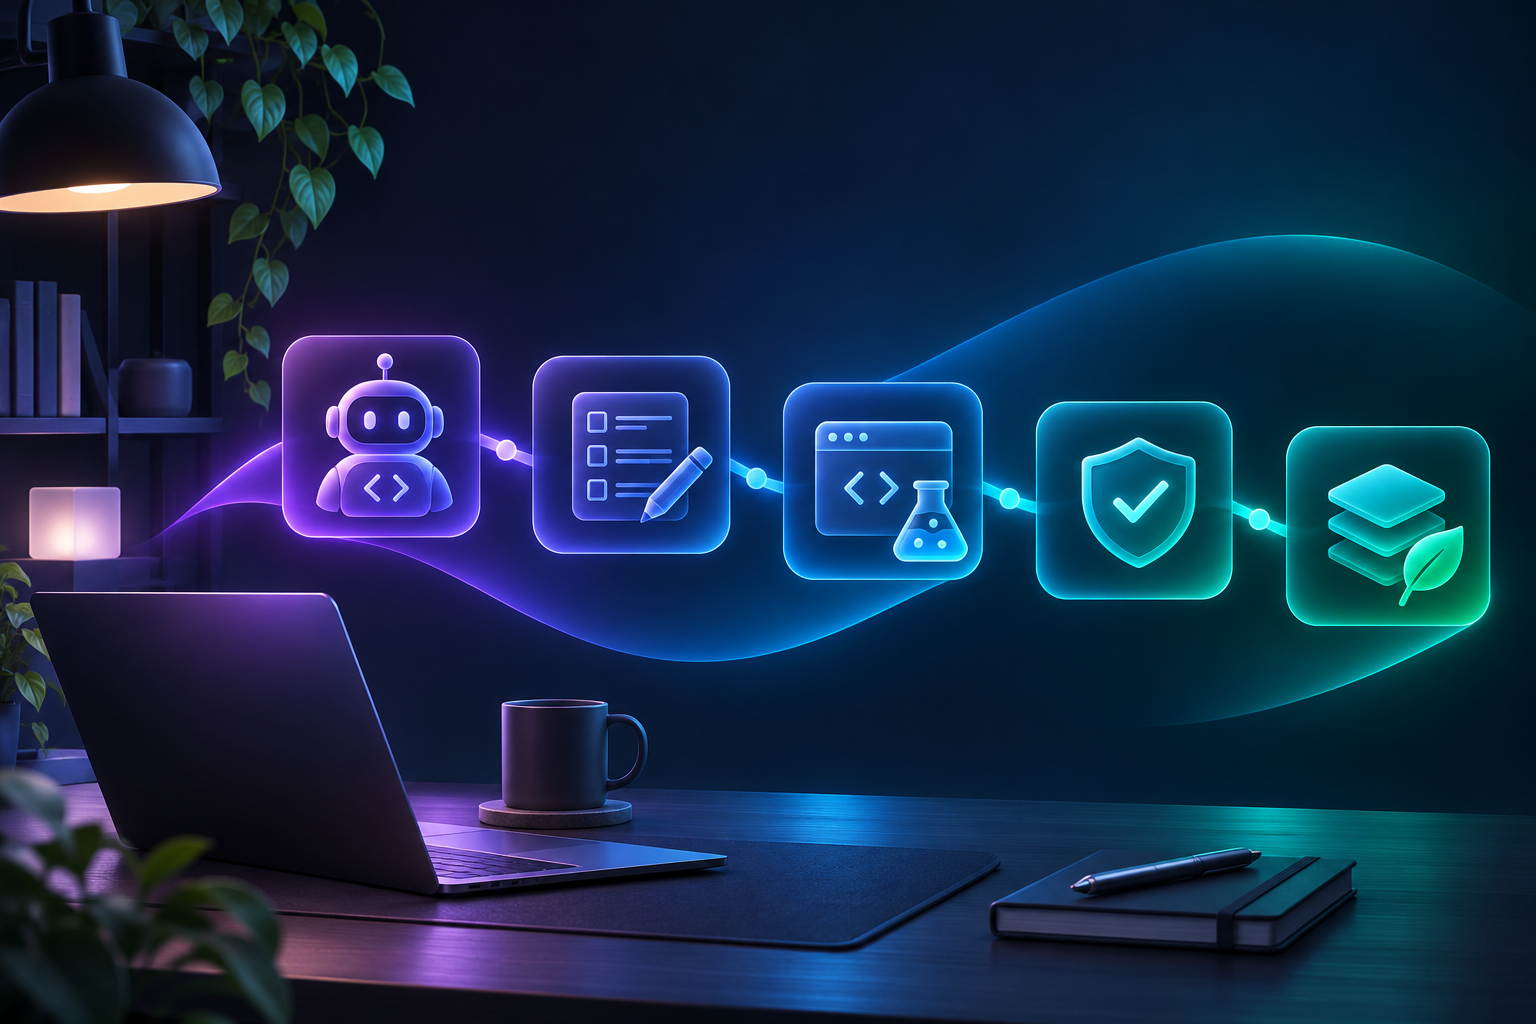
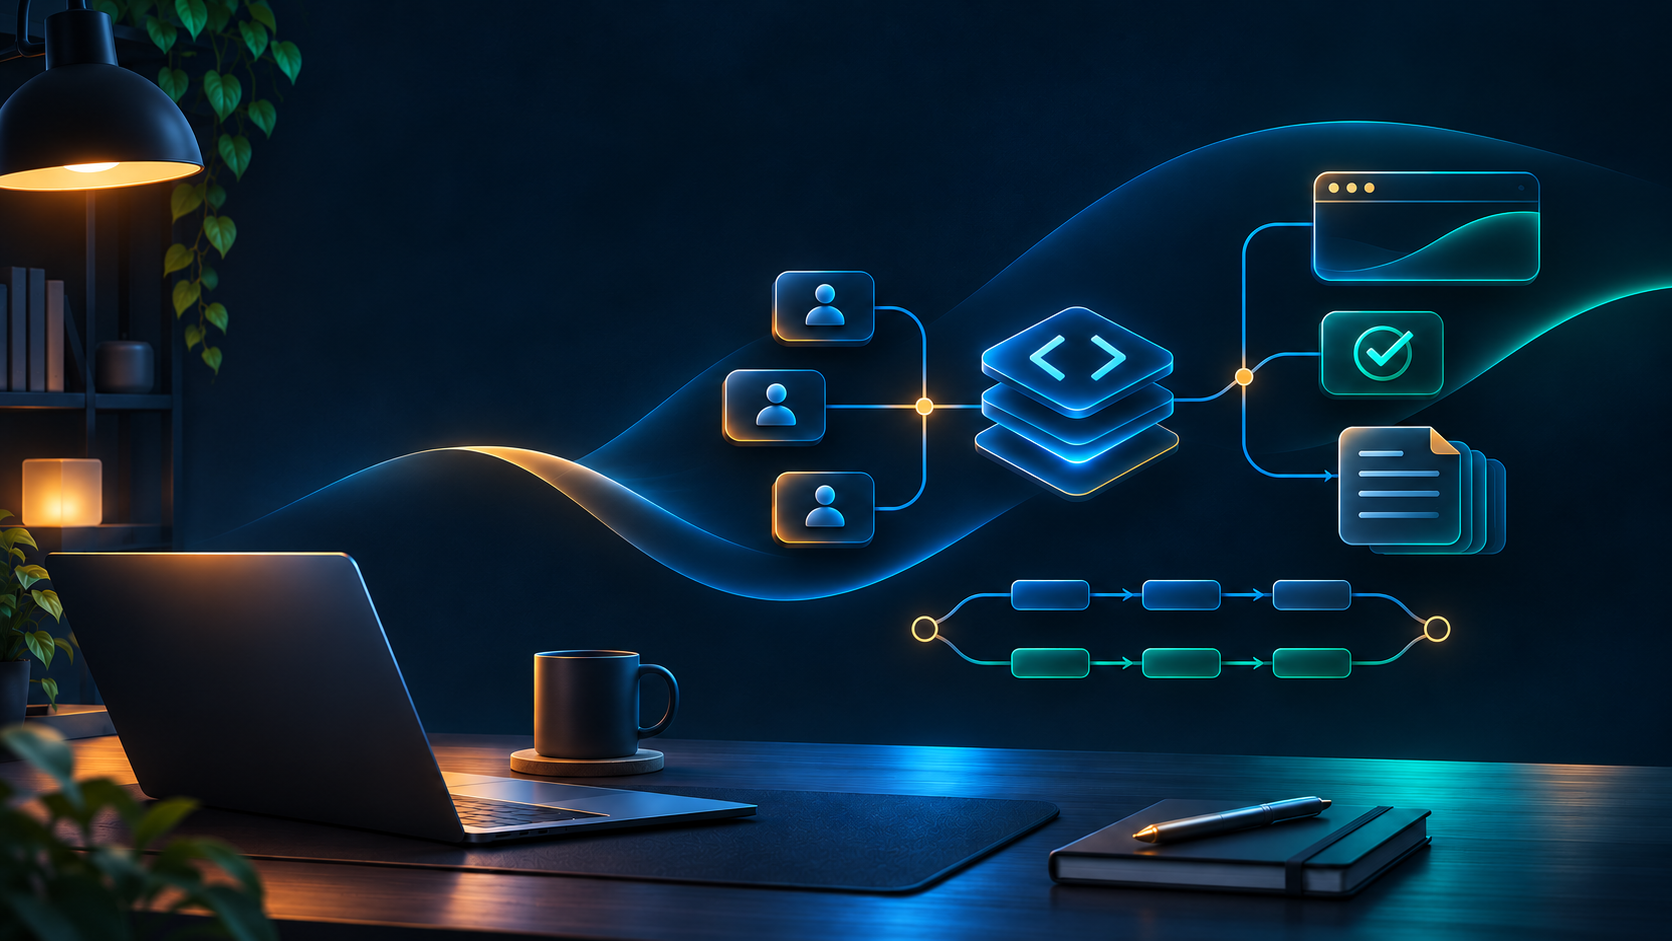
docs: add global installation and unified stack guide

diff --git a/docs/pt-br/instalacao-global.md b/docs/pt-br/instalacao-global.md
@@ -1,0 +1,166 @@
+# Instalação global — Claude Code + OpenAI Codex
+
+Este guia instala as skills nos diretórios globais dos dois agentes e deixa os MCPs opcionais separados. O catálogo não copia os monorepos inteiros: instala apenas as skills necessárias e referencia os servidores oficiais.
+
+## 1. Pré-requisitos
+
+Abra o PowerShell e confirme:
+
+```powershell
+node --version       # Node.js 20+
+npm --version
+git --version
+```
+
+Para os recursos opcionais:
+
+- Docker: Firecrawl local e Strix.
+- Chrome/Chromium: Playwright e agent-browser.
+- `uv`: Strix.
+- Conta/API key: Firecrawl, PostHog, Composio e 21st.dev.
+
+O diretório global do Codex é `$HOME\.agents\skills`; o do Claude Code é `$HOME\.claude\skills`. O instalador abaixo grava nos dois com `-a claude-code -a codex -g`.
+
+## 2. Instalar a base global
+
+Execute em um terminal novo:
+
+```powershell
+npx -y skills@latest add obra/superpowers -a claude-code -a codex -g --copy -y
+npx -y skills@latest add DietrichGebert/ponytail -a claude-code -a codex -g --copy -y
+npx -y skills@latest add JuliusBrussee/caveman -a claude-code -a codex -g --copy -y
+npx -y skills@latest add howardhsieh/agent-security-skills -a claude-code -a codex -g --copy -y
+npx -y skills@latest add adewale/testing-best-practices -a claude-code -a codex -g --copy -y
+npx -y skills@latest add OthmanAdi/planning-with-files -a claude-code -a codex -g --copy -y
+npx -y skills@latest add Graphify-Labs/graphify -a claude-code -a codex -g --copy -y
+```
+
+`--copy` deixa uma cópia independente em cada diretório do agente. Sem essa opção, alguns instaladores podem criar links para o cache local.
+
+## 3. Instalar a camada de trabalho paralelo
+
+Use `dispatching-parallel-agents` para tarefas independentes, `using-git-worktrees` para isolamento e `subagent-driven-development` para coordenar a integração:
+
+```powershell
+npx -y skills@latest add obra/superpowers `
+  --skill dispatching-parallel-agents `
+  --skill subagent-driven-development `
+  --skill using-git-worktrees `
+  -a claude-code -a codex -g --copy -y
+
+npx -y skills@latest add JuliusBrussee/caveman `
+  --skill cavecrew `
+  -a claude-code -a codex -g --copy -y
+```
+
+Regra: agentes podem trabalhar em paralelo somente quando não editam os mesmos arquivos e não dependem da saída uns dos outros. Integração, revisão e verificação final são sequenciais.
+
+## 4. Instalar qualidade, frontend e navegador
+
+```powershell
+npx -y skills@latest add mattpocock/skills -a claude-code -a codex -g --copy -y
+npx -y skills@latest add addyosmani/agent-skills -a claude-code -a codex -g --copy -y
+npx -y skills@latest add vercel-labs/agent-skills -a claude-code -a codex -g --copy -y
+npx -y skills@latest add nextlevelbuilder/ui-ux-pro-max-skill -a claude-code -a codex -g --copy -y
+npx -y skills@latest add Leonxlnx/taste-skill --skill design-taste-frontend -a claude-code -a codex -g --copy -y
+npx -y skills@latest add 21st-dev/skill --all -a claude-code -a codex -g --copy -y
+npx -y skills@latest add vercel-labs/agent-browser -a claude-code -a codex -g --copy -y
+npm install --global agent-browser @playwright/cli
+agent-browser install
+```
+
+Para vídeo/motion, instale apenas quando necessário:
+
+```powershell
+npx -y skills@latest add heygen-com/hyperframes -a claude-code -a codex -g --copy -y
+```
+
+## 5. Instalar web, integrações e segurança opcional
+
+```powershell
+npx -y skills@latest add firecrawl/firecrawl `
+  --skill firecrawl-build `
+  --skill firecrawl-build-interact `
+  --skill firecrawl-build-onboarding `
+  --skill firecrawl-build-scrape `
+  --skill firecrawl-build-search `
+  -a claude-code -a codex -g --copy -y
+
+npx -y skills@latest add composiohq/skills --skill composio -a claude-code -a codex -g --copy -y
+npx -y skills@latest add usestrix/strix --all -a claude-code -a codex -g --copy -y
+```
+
+Strix é pentest ativo: só rode contra aplicações próprias ou com autorização escrita. Não instale o monorepo AGPL do Firecrawl dentro deste catálogo MIT; use as skills e o MCP oficial.
+
+## 6. Reduzir saída e consumo de contexto
+
+RTK reduz ruído de terminal antes do modelo receber a saída. A redução de texto não garante redução de cobrança: meça qualidade, chamadas e retrabalho.
+
+```powershell
+winget install --id rtk-ai.rtk -e --accept-source-agreements --accept-package-agreements
+```
+
+Feche e abra o terminal, então:
+
+```powershell
+rtk init -g
+rtk init -g --codex
+rtk gain
+```
+
+Se `rtk` não for encontrado, abra uma nova janela do PowerShell para atualizar o `PATH`.
+
+## 7. MCPs oficiais
+
+Skills e MCPs são camadas diferentes. Skills ensinam o agente; MCPs dão acesso a ferramentas e dados externos.
+
+### Codex e Claude: documentação OpenAI
+
+```powershell
+codex mcp add openaiDeveloperDocs --url https://developers.openai.com/mcp
+claude mcp add --transport http --scope user openaiDeveloperDocs https://developers.openai.com/mcp
+```
+
+### Endpoints do stack
+
+| Serviço | Endpoint/ferramenta | Credencial |
+|---|---|---|
+| Playwright | `npx @playwright/mcp@latest` | navegador local |
+| Firecrawl | `https://mcp.firecrawl.dev/v2/mcp-oauth` | OAuth/API key |
+| PostHog | `https://mcp.posthog.com/mcp?mode=cli` | API key/projeto |
+| Composio | `https://connect.composio.dev/mcp` | conexão OAuth |
+| Context7 | MCP oficial do upstream | conforme o fornecedor |
+| 21st.dev | MCP/CLI oficial | API key |
+
+O formato exato do comando MCP pode variar conforme a versão do cliente. Consulte `codex mcp --help` ou `claude mcp --help` antes de registrar servidores adicionais. O manifesto sem segredos está em [`manifests/stack.json`](../../manifests/stack.json).
+
+## 8. Verificar a instalação
+
+```powershell
+npx -y skills@latest list
+Get-ChildItem "$HOME\.agents\skills" | Select-Object Name
+Get-ChildItem "$HOME\.claude\skills" | Select-Object Name
+codex mcp list
+claude mcp list
+```
+
+Depois reinicie Claude Code e Codex. Em uma conversa nova, peça primeiro planejamento; para duas tarefas independentes, peça divisão em agentes/worktrees; ao final, peça testes, revisão e verificação.
+
+## 9. Instalar o perfil completo deste repo
+
+O manifesto lista tudo, inclusive itens experimentais. Para revisar os comandos sem executá-los:
+
+```powershell
+pwsh ./scripts/verify-manifest.ps1
+pwsh ./scripts/install-profile.ps1 -Profile unified -WhatIf
+```
+
+O script é deliberadamente um gerador de comandos: ele não instala código remoto automaticamente. Revise cada item antes de executar. `find-skills` permanece pendente porque o upstream atual falha na validação YAML; `ai-skills-24` é opt-in por incluir integrações externas e permissões amplas.
+
+## Diagnóstico rápido
+
+- Skill aparece no Codex, mas não no Claude: repita com `-a claude-code -a codex -g --copy` e confirme os dois diretórios.
+- MCP não conecta: confira endpoint, credencial, `codex mcp list`/`claude mcp list` e reinicie o cliente.
+- Terminal não mostra `rtk`: abra um novo PowerShell após o `winget`.
+- Browser não abre: execute `agent-browser install` e confirme que o Playwright tem seus browsers instalados.
+- Paralelização conflita: separe worktrees e mantenha arquivos compartilhados para a etapa sequencial de integração.

diff --git a/docs/pt-br/unified-stack.md b/docs/pt-br/unified-stack.md
@@ -1,0 +1,54 @@
+# Stack unificada — PT-BR
+
+“Todos juntos” significa roteamento coordenado, não carregar todas as instruções em toda chamada. Claude Code e Codex usam a mesma arquitetura, mas cada cliente mantém seus próprios arquivos globais e configuração MCP.
+
+## Arquitetura
+
+| Camada | Responsabilidade | Componentes |
+|---|---|---|
+| Planejamento | definir escopo, riscos e critérios | Planning with Files, Writing Plans |
+| Paralelismo | dividir tarefas independentes | Superpowers, Cavecrew, worktrees |
+| Execução | implementar no domínio certo | frontend, browser, web, media, apps |
+| Contexto | reduzir exploração e desatualização | Graphify, Context7, RTK |
+| Qualidade | testar, revisar e integrar | TDD, Testing Best Practices, Code Review |
+| Segurança | auditar skills e aplicações | Agent Security Skills, Strix |
+| Verificação | provar que o resultado funciona | Verification Before Completion |
+
+## Fluxo padrão
+
+1. **Entender:** identificar objetivo, arquivos, dependências e restrições.
+2. **Planejar:** criar plano curto e critérios verificáveis.
+3. **Dividir:** separar somente tarefas independentes.
+4. **Executar:** cada agente recebe escopo, arquivos e resultado esperado.
+5. **Integrar:** resolver conflitos em uma etapa coordenada e sequencial.
+6. **Revisar:** rodar testes, revisão de código e checagem de segurança.
+7. **Verificar:** executar os comandos finais e registrar evidências.
+
+## Regras de paralelização
+
+- Paralelo: documentação independente, testes de módulos diferentes, pesquisa separada e componentes sem arquivos compartilhados.
+- Sequencial: migrações, alterações no mesmo arquivo, decisões de arquitetura, integração e publicação.
+- Cada worker deve informar: escopo, arquivos alterados, testes executados, riscos e commit.
+- O coordenador verifica conflitos; não aceite “terminado” sem teste ou evidência.
+- Acesso externo, envio de dados, analytics, OAuth e pentest exigem aprovação explícita.
+
+## Roteamento por tarefa
+
+- **UI:** 21st.dev, UI/UX Pro Max, Design Taste e Vercel.
+- **Navegador:** Playwright para testes estruturados; agent-browser para automação geral.
+- **Web:** Firecrawl para busca/scraping; Context7 para documentação atual.
+- **Produto:** PostHog para analytics, flags, experimentos e replay; Composio para apps externos autenticados.
+- **Mídia:** HyperFrames para vídeo, motion graphics e legendas via código.
+- **Qualidade:** TDD, testes, revisão e verificação.
+- **Segurança:** auditoria de skills e Strix somente em alvos autorizados.
+- **Descoberta:** Find Skills quando a habilidade exata ainda não estiver no catálogo; o upstream atual precisa de correção YAML antes da instalação.
+
+## Como ativar
+
+O perfil `unified` lista todos os componentes aprovados, mas não executa instaladores remotos nem configura credenciais automaticamente:
+
+```powershell
+pwsh ./scripts/install-profile.ps1 -Profile unified -WhatIf
+```
+
+Para instalar globalmente nos dois agentes, siga [instalacao-global.md](instalacao-global.md). O roteamento que deve ser carregado por cada cliente está em [`AGENTS.md`](../../AGENTS.md), [`CLAUDE.md`](../../CLAUDE.md) e [`manifests/stack.json`](../../manifests/stack.json).

diff --git a/README.md b/README.md
@@ -28,6 +28,7 @@ Um agente de código precisa de método, contexto curto, documentação atual e 
 | `observability` | Analytics, flags, experimentos e skills via PostHog MCP |
 | `security` | Auditoria de skills e pentest autorizado com Strix |
 | `experimental` | Token Optimizer, GStack e ECC; revisar antes |
+| `unified` | Roteamento completo; skills carregadas sob demanda |
 
 ## Instalação
 
@@ -39,6 +40,18 @@ pwsh ./scripts/install-profile.ps1 -Profile core -WhatIf
 ```
 
 O script não executa instaladores remotos. Isso mantém a revisão explícita. Skills e hooks de terceiros podem executar comandos com os privilégios do agente; leia [docs/pt-br/security.md](docs/pt-br/security.md) antes de instalar.
+
+### Instalação global para Claude e Codex
+
+O guia completo, em português, explica os comandos para instalar nos dois diretórios globais, ativar RTK, configurar MCPs e verificar o resultado: [docs/pt-br/instalacao-global.md](docs/pt-br/instalacao-global.md).
+
+Comando-base:
+
+```powershell
+npx -y skills@latest add obra/superpowers -a claude-code -a codex -g --copy -y
+```
+
+Repita o padrão para os pacotes desejados. `-g` significa global; `-a` escolhe os agentes; `--copy` evita depender de links do cache.
 
 ### Paralelização
 
@@ -57,6 +70,8 @@ Use `orchestration` quando houver tarefas independentes. Cada agente recebe esco
 - Strix executa pentest ativo: use somente em alvos próprios ou autorizados por escrito.
 
 Os quatro repositórios novos ficam referenciados no manifesto; seus monorepos não são copiados para este catálogo para evitar duplicação, bloat e conflitos de licença.
+
+Para entender o que foi instalado, qual agente atende cada etapa e como os componentes trabalham juntos, consulte [docs/pt-br/unified-stack.md](docs/pt-br/unified-stack.md) e [manifests/stack.json](manifests/stack.json).
 
 Menos tokens de saída não garantem menor custo total. Verifique qualidade, chamadas adicionais e taxa de retrabalho.
 

diff --git a/AGENTS.md b/AGENTS.md
@@ -1,0 +1,30 @@
+# Vibe Coding Essential — unified agent routing
+
+Use the installed skills as one routed stack for Claude Code and OpenAI Codex.
+
+## Routing rules
+
+1. Start with `using-agent-skills` or the catalog in `manifests/skills.json`.
+2. Use `planning-with-files` and `writing-plans` for multi-step work.
+3. If there are 2+ independent tasks, use `dispatching-parallel-agents` or `cavecrew`.
+4. Give each parallel agent an isolated scope/worktree. Never let parallel agents edit the same files.
+5. Keep dependent tasks sequential. Integrate only after every worker reports.
+6. Use one domain route at a time when routes overlap:
+   - UI: `21st-ui-*` → `ui-ux-pro-max` → `design-taste-frontend` → Vercel review.
+   - Browser: Playwright MCP/CLI for structured testing; `agent-browser` for general browser automation.
+   - Web data: Firecrawl for search/scrape/crawl; Context7 for current library docs.
+   - Product telemetry: PostHog MCP for analytics, flags, experiments, replay, and errors.
+   - External apps: Composio only after explicit authentication and action approval.
+7. Use `tdd`/`testing-best-practices` while implementing, then `code-review-and-quality` and security review.
+8. Finish with `verification-before-completion`; report evidence, not guesses.
+
+## Safety and token rules
+
+- Do not load every skill body into context. Load only the route needed for the task.
+- Do not run external actions, pentests, browser logins, or data mutations without user authorization.
+- Never commit credentials, API keys, `.env` files, or MCP tokens.
+- Experimental packs stay opt-in.
+
+## Parallel completion contract
+
+Each worker returns: scope, files changed, tests/checks, risks, and commit/hash if applicable. The coordinator checks conflicts, runs the integrated verification, and only then reports completion.

diff --git a/README.en.md b/README.en.md
@@ -28,6 +28,7 @@ Coding agents need method, compact context, current documentation, and real veri
 | `observability` | Analytics, flags, experiments, and skills via PostHog MCP |
 | `security` | Skill auditing and authorized Strix pentesting |
 | `experimental` | Token Optimizer, GStack, and ECC; review first |
+| `unified` | Full routing; skills loaded on demand |
 
 ## Install
 
@@ -57,6 +58,8 @@ Use `orchestration` when tasks are independent. Give each agent an isolated scop
 - Strix performs active pentesting: use only on assets you own or have written authorization to test.
 
 The four new repositories are referenced in the manifest; their monorepos are not copied into this catalog to avoid duplication, bloat, and license conflicts.
+
+See the integrated flow in [docs/en/unified-stack.md](docs/en/unified-stack.md) and the rules loaded by Claude/Codex in `AGENTS.md` and `CLAUDE.md`.
 
 Fewer output tokens do not guarantee lower total cost. Measure quality, extra calls, and rework.
 

diff --git a/docs/en/unified-stack.md b/docs/en/unified-stack.md
@@ -1,0 +1,21 @@
+# Unified stack — English
+
+“All together” means coordinated routing, not loading every instruction into every call.
+
+Default flow:
+
+1. Plan and split the work.
+2. Dispatch independent tasks in parallel, each with an isolated scope.
+3. Keep dependencies and shared-file edits sequential.
+4. Integrate, review quality/security, and run final verification.
+
+Routes:
+
+- UI: 21st.dev, UI/UX Pro Max, Design Taste, and Vercel.
+- Browser: Playwright for structured testing; agent-browser for general automation.
+- Web: Firecrawl for search/scraping; Context7 for current documentation.
+- Product: PostHog for analytics/flags/experiments; Composio for authenticated external apps.
+- Quality: TDD, testing, review, and verification.
+- Security: skill audits and Strix only against authorized targets.
+
+The `unified` profile prints all approved commands. It does not run remote installers or configure credentials automatically.

diff --git a/CLAUDE.md b/CLAUDE.md
@@ -1,0 +1,10 @@
+# Vibe Coding Essential — unified agent routing
+
+Use the same routed stack described in `AGENTS.md`. Do not activate every skill globally in one prompt.
+
+- Plan multi-step work with `planning-with-files` and `writing-plans`.
+- For 2+ independent tasks, dispatch `dispatching-parallel-agents` or `cavecrew` with isolated scopes.
+- Keep shared-file and dependent work sequential; review the integrated result.
+- Route UI through 21st.dev/UI UX/Design Taste, browser work through Playwright or agent-browser, web data through Firecrawl, docs through Context7, telemetry through PostHog, and external app actions through authenticated Composio.
+- Use TDD/testing, code review, security review, and verification before claiming completion.
+- Load skills on demand, protect credentials, and require authorization for external actions or pentesting.
